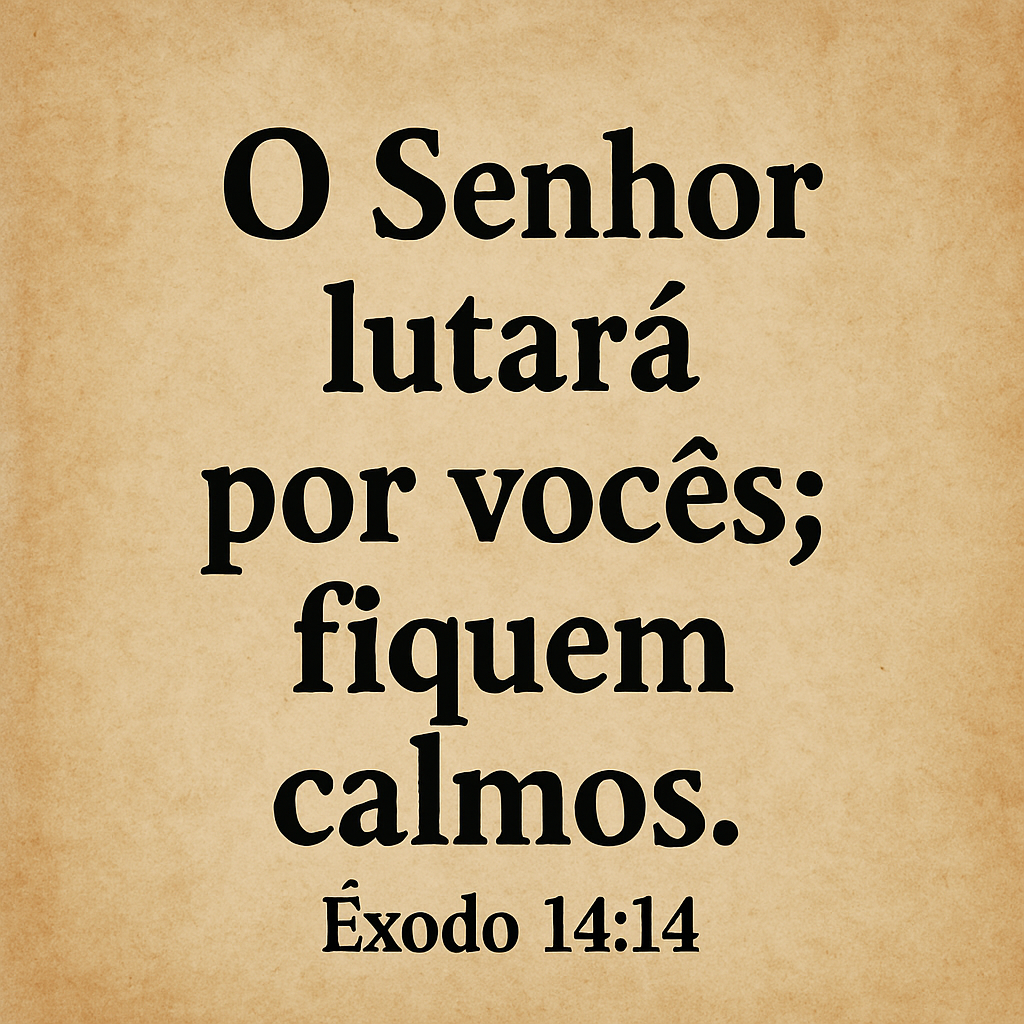
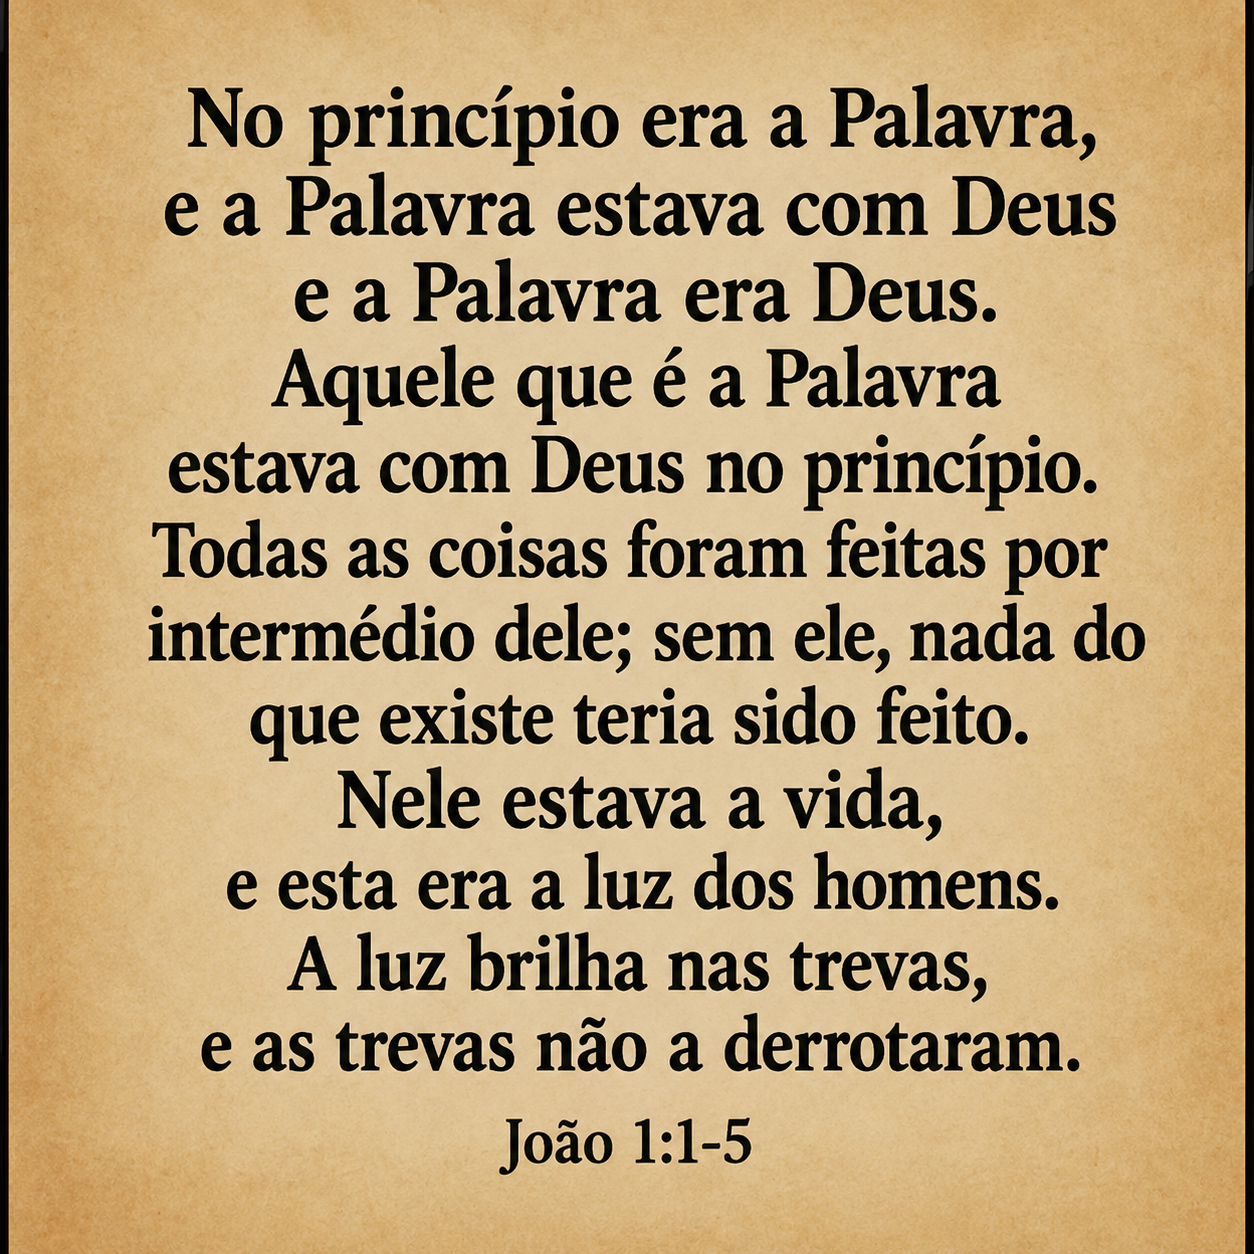
#

diff --git a/index.html b/index.html
@@ -45,7 +45,7 @@
     <div class="navbar-custom">
       <nav>
           <a href="index.html">Início</a>
-          <a href="pages/estudos.html">Estudos & Pregações</a>
+          <a href="pages/estudos.html">Biblioteca Cartas Vivas</a>
           <a href="https://www.youtube.com/@CartasVivasBrasil" target="_blank">Canal no YouTube</a>
       </nav>
     </div>
@@ -235,21 +235,32 @@
         <div class="rec-container">
           <img src="assets/image/versiculo-semanal.png" alt="versículo semanal">
           <div class="reflexao">
-            <h2 style="text-align: center;">Êxodo 14:14</h2>
+            <h2 style="text-align: center;">João 1:1-5</h2>
             <br>
             <p>
-            Este versículo é um lembrete poderoso de que a salvação e o livramento pertencem ao Senhor. O povo de Israel estava encurralado entre o exército egípcio e o Mar Vermelho, sem saída aparente. Em vez de instruí-los a lutar ou fugir, Moisés declara que o Senhor lutaria por eles. Isso ecoa uma das doutrinas centrais da fé: Deus é soberano em todas as coisas, inclusive na salvação e na proteção de Seu povo.
+            João inicia seu evangelho nos levando para antes da criação do mundo. Antes de existir o céu, a terra, os mares, os anjos ou os homens, Cristo já existia. Ele não foi criado; Ele é eterno. Aquele que nasceu em Belém é o mesmo que estava com o Pai desde toda a eternidade.
               <br>
-            <b>1. Soberania de Deus</b> <br>
-            Deus não é um espectador passivo. Ele é o autor da história, o comandante das batalhas e o defensor dos seus. Nada escapa do Seu controle, nem mesmo os momentos de crise. Êxodo 14:14 nos mostra que o livramento não depende da força humana, mas da ação soberana de Deus.
-              <br>
-            <b>2. Descanso na providência</b> <br>
-            "Fiquem calmos" não é uma sugestão de passividade, mas um chamado à fé. O crente tem que entender que pode descansar porque Deus está agindo. A providência divina não é apenas um conceito teológico, é uma realidade prática que sustenta o cristão em meio ao caos.
-              <br>
-            <b>3. Cristo como nosso guerreiro</b> <br>
-            Neste versículo vemos Cristo como o cumprimento final. Ele lutou a batalha definitiva contra o pecado e a morte na cruz. O cristão pode "ficar calmo" porque Jesus já venceu. Nossa segurança está na obra consumada de Cristo.
-              <br>
-            Esse versículo nos convida a confiar, descansar e adorar. Não somos chamados a vencer por nós mesmos, mas a crer que o Senhor já venceu por nós. Que essa reflexão nos leve à humildade, à esperança e à paz que excede todo entendimento.
+            Ao chamar Jesus de "Palavra" (Logos), João nos mostra que Cristo é a revelação perfeita de Deus. Se queremos conhecer quem Deus é, devemos olhar para Jesus. Nele vemos o amor, a justiça, a santidade e a graça do Pai.
+            <br>
+            O texto também afirma que todas as coisas foram feitas por intermédio dEle. Isso significa que nada existe por acaso. O universo, a vida e cada detalhe da criação são obras das mãos do Filho de Deus. Aquele que sustenta as estrelas também sustenta a vida dos seus filhos.
+            <br>
+            Mas João vai além e declara:
+            <br>
+            "Nele estava a vida, e esta era a luz dos homens."
+            <br>
+            O pecado mergulhou a humanidade em trevas espirituais. O homem, por si mesmo, não consegue encontrar o caminho para Deus. Porém, Cristo veio como a verdadeira Luz. Ele ilumina o coração, revela o pecado, conduz à salvação e mostra o caminho da vida eterna.
+            <br>
+            E então encontramos uma das declarações mais encorajadoras das Escrituras:
+            <br>
+            "A luz brilha nas trevas, e as trevas não a derrotaram."
+            <br>
+            As trevas parecem fortes. Às vezes enfrentamos dores, dúvidas, medos e situações que parecem sem solução. Entretanto, a luz de Cristo jamais pode ser apagada. Satanás não pode vencê-la. O pecado não pode vencê-la. A morte não pode vencê-la.
+            <br>
+            Cristo reina. Sua luz continua brilhando hoje e continuará brilhando para sempre.
+            <br>
+            Sendo assim devemos refletir sobre a nossa própria vida. Estamos confiando em nossa própria força ou na Luz de Cristo? A luz de Jesus é suficiente para iluminar o caminho, mesmo quando tudo parece escuro.
+            <br>
+            Você tem tentado enfrentar suas lutas confiando em sua própria força ou na Luz de Cristo? Lembre-se: quando tudo parece escuro, a presença de Jesus continua sendo suficiente para iluminar o caminho.
             </p>
           </div>
         </div>

diff --git a/pages/estudos.html b/pages/estudos.html
@@ -27,7 +27,7 @@
     <div class="navbar-custom">
       <nav>
           <a href="../index.html">Inicio</a>
-          <a href="pages/estudos.html">Estudos bíblicos</a>
+          <a href="pages/estudos.html">Biblioteca Cartas Vivas</a>
           <a href="https://www.youtube.com/@CartasVivasBrasil" target="_blank">Canal no Youtube</a>
       </nav>
     </div>
@@ -62,9 +62,21 @@
         <p class="card-text">Série de estudos sobre o Livro "Cinco Pontos" de John Piper ministrado na igreja Presbiteriana Ebenezer de Taubaté pelo Pastor Marcelo Milazzo.</p>
         </a>
           </div>
-        </div>
+        </div> 
         <!-- Fim do Estudo 02 -->
-      </div>
+
+        <!-- Estudo 03 -->
+        <div class="card">
+          <img src="https://i.scdn.co/image/ab67656300005f1f67c44471891cc07209a2ad6d" class="card-img-top" alt="...">
+      
+          <a href="https://open.spotify.com/playlist/1KHiQi1odcXoe2bbiYmuhI?si=kcrLhGASQT2SCct41iGyfQ" class="link-card" target="_blank">
+          <div class="card-body">
+        <h5 class="card-title"><b>Cinco Pontos</b></h5>
+        <p class="card-text">Estudo baseado no livro “Oração”, de Timothy Keller. Ministrado pelo Rev. Marcelo Milazzo na igreja Presbiteriana Ebenezer de Taubaté.</p>
+        </a>
+          </div>
+        </div> 
+        <!-- Fim do Estudo 3 -->
     </section>
 
     <!-- Pregações -->
@@ -99,6 +111,25 @@
         <!-- Fim Pregações 1Samuel -->
       </div>
     </section>
+
+    <!-- Devocionais -->
+     <section class="estudos-contain">
+      <h1>Devocionais</h1>
+      <div class="card-container-estudos">
+        <!-- Devocionais Madson -->
+        <div class="card">
+          <img src="../assets/image/Devocionais.png" class="card-img-top" alt="...">
+      
+          <a href="https://open.spotify.com/playlist/0FcF50OStJ6l2vCzQts57Z?si=TYe7biTMSSutLppAv08E7w" target="_blank" class="link-card">
+          <div class="card-body">
+        <h5 class="card-title"><b>Devocionais <br>
+          Madson Almeida</b></h5>
+        <p class="card-text">Todos devocionais feitos por Madson Almeida, Lider na igreja Dokmos em Taubaté.</p>
+        </a>
+          </div>
+        </div>
+        <!-- Fim devocionais Madson -->
+     </section>
       
 
   </main>

diff --git a/assets/css/style.css b/assets/css/style.css
@@ -384,6 +384,17 @@ main{
   height: 460px;
 }
 
+.reflexao p{
+  max-height: 300px;
+  overflow-y: scroll;
+}
+
+.reflexao ::-webkit-scrollbar {
+  width: 10px;
+  background-color: var(--color-button);
+
+}
+
 #abaVersiculo button{
   display: block;
   margin: auto;
@@ -449,8 +460,10 @@ main{
 
 /* Pedidos de Oração */
 .pedidos{
-  background-image: url("../image/mobile/pedidos-background.webp");
-  background-position: 0px -420px;
+  background-image: url("../image/oracao-backgroud.png");
+  background-size: cover;
+  background-position: left bottom;
+
   margin: auto;
   margin-top: 20px;
   width: 98%;